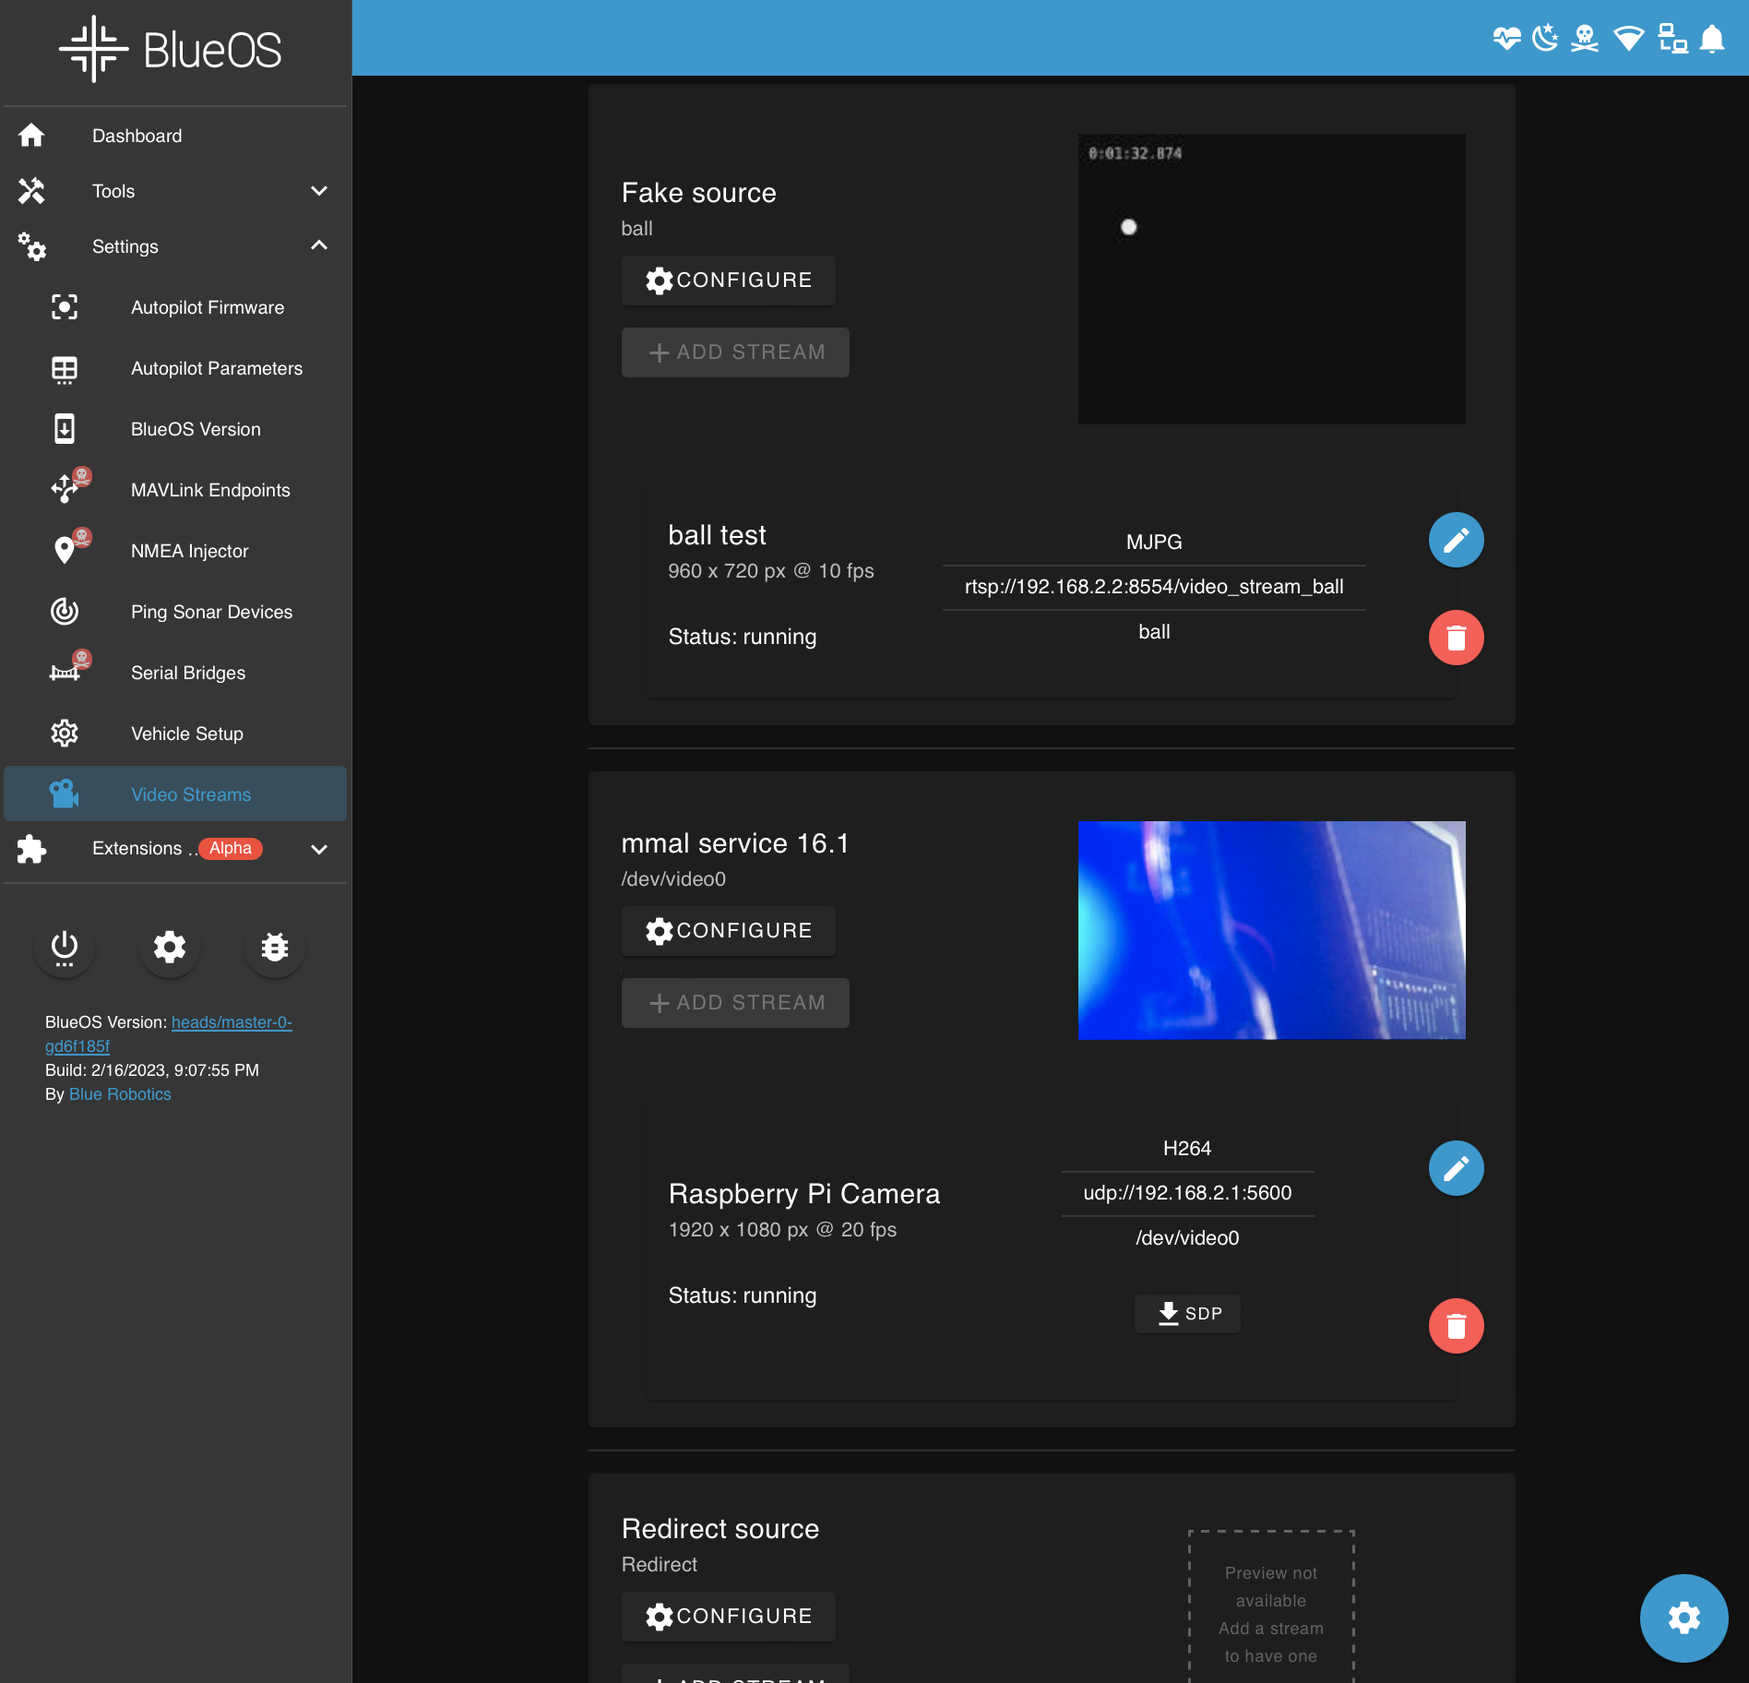
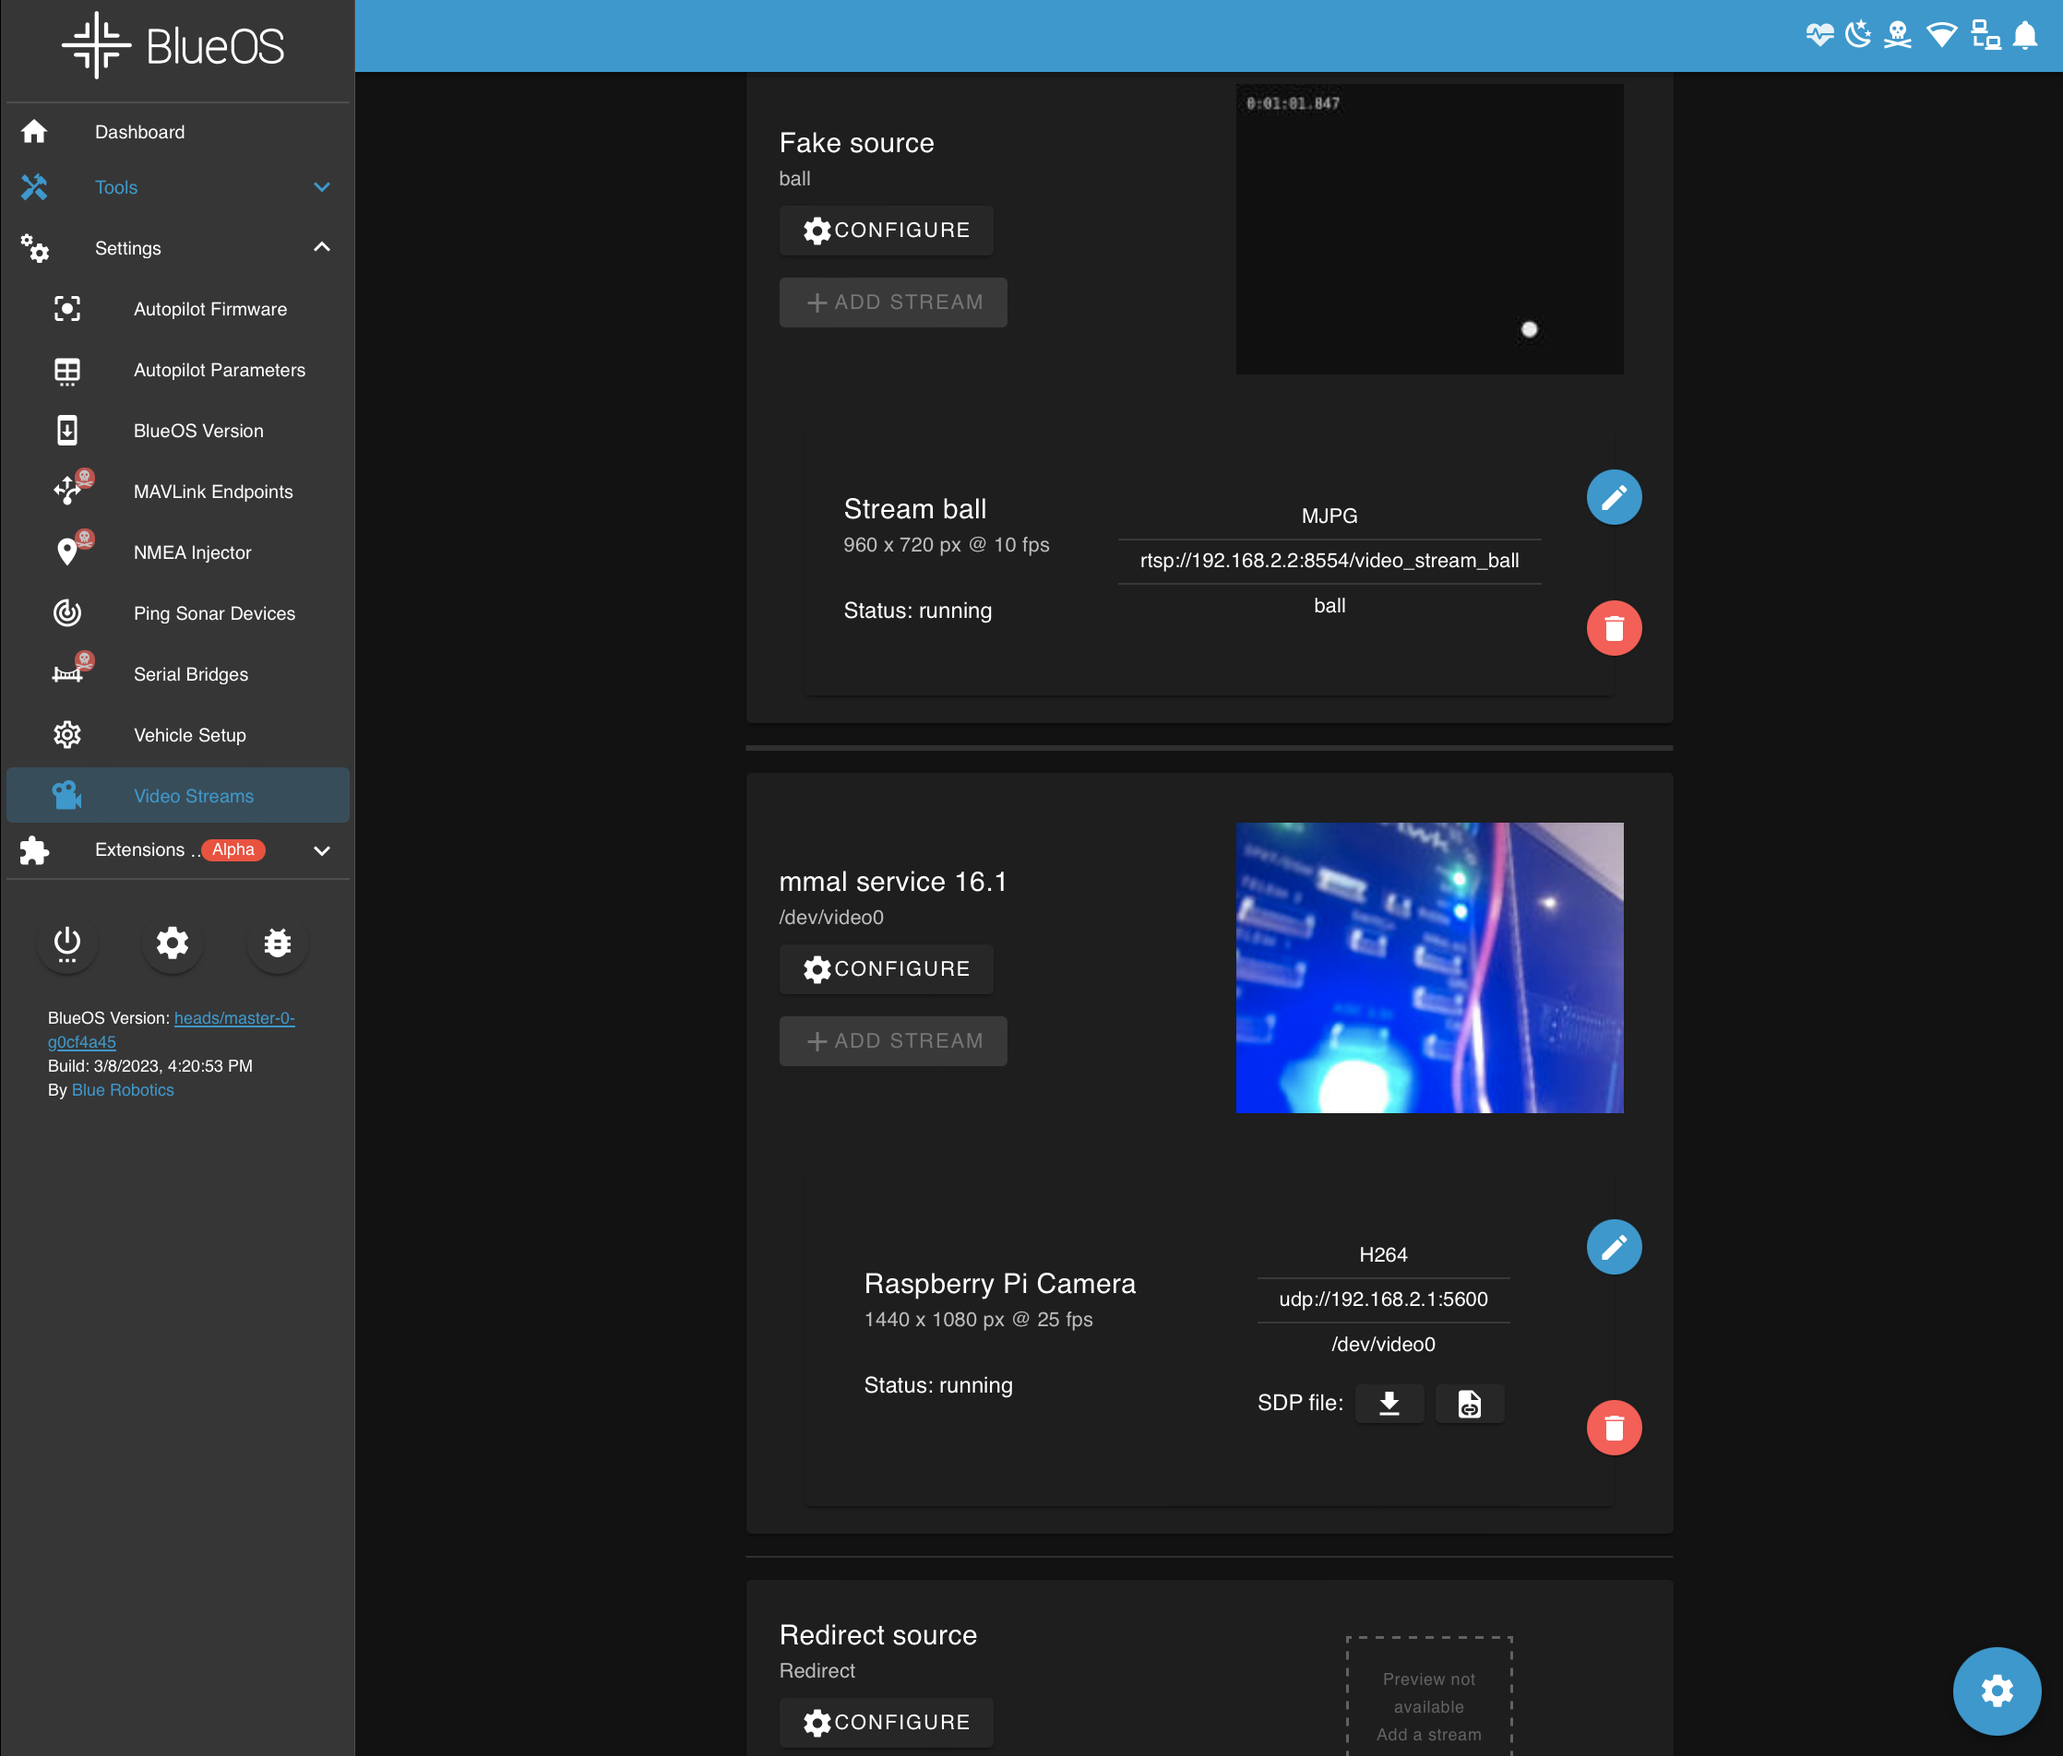
advanced-usage: video-streams: add SDP URL copy option Documents bluerobotics/BlueOS-docker#1514

diff --git a/advanced-usage/index.md b/advanced-usage/index.md
@@ -529,8 +529,8 @@ controllable in QGroundControl
        - Note that some playback applications (e.g. VLC)  treat odd-numbered ports
        as audio channels, so relevant video streams should only use even-numbered
        ports
-       - UDP streams have the option to download an SDP file to easier playback
-       on some applications `(New in 1.1)`
+       - UDP streams have the option to download an SDP file (or copy a URL to it),
+       for easier video playback in applications like VLC `(New in 1.1)`
 - Raspberry Pi cameras are supported `(New in 1.1)`
    - Detection requires turning on legacy camera support:
       1. turn on via the settings button in the buttom right corner
